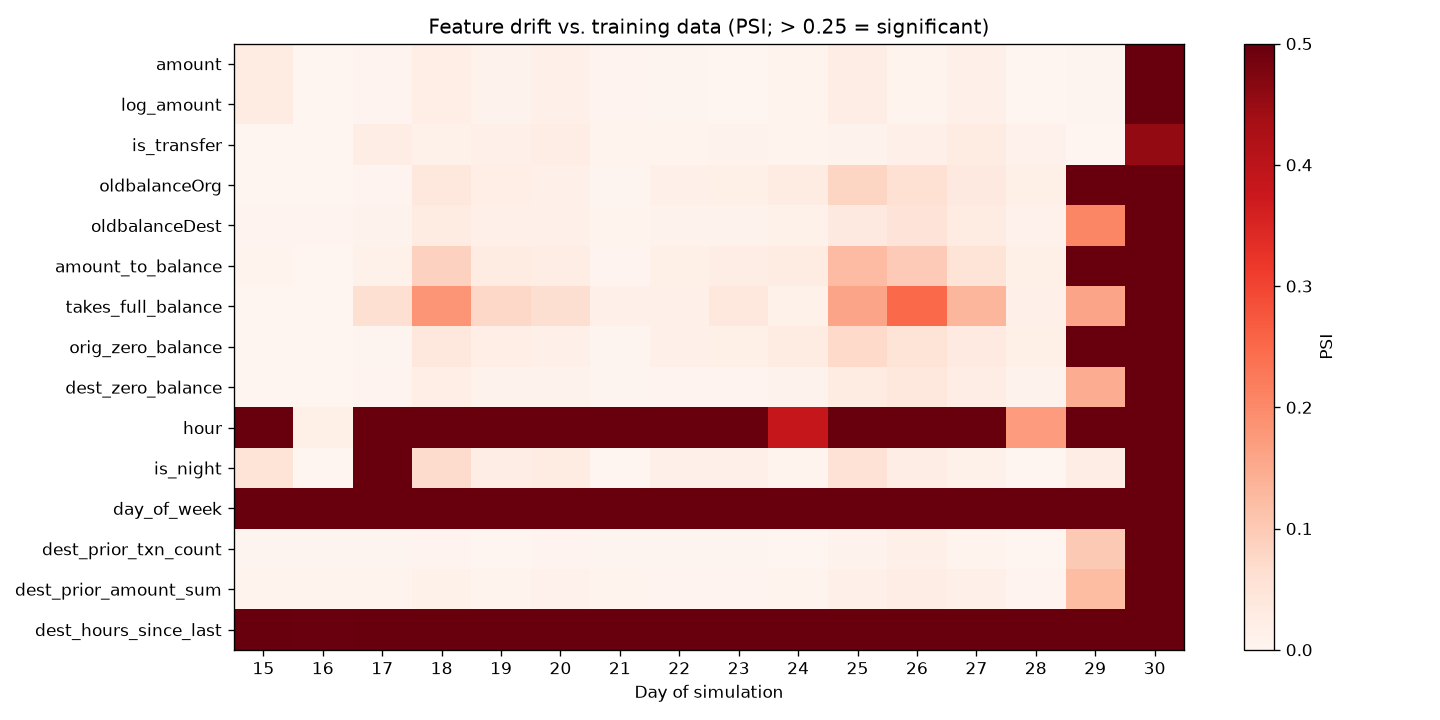
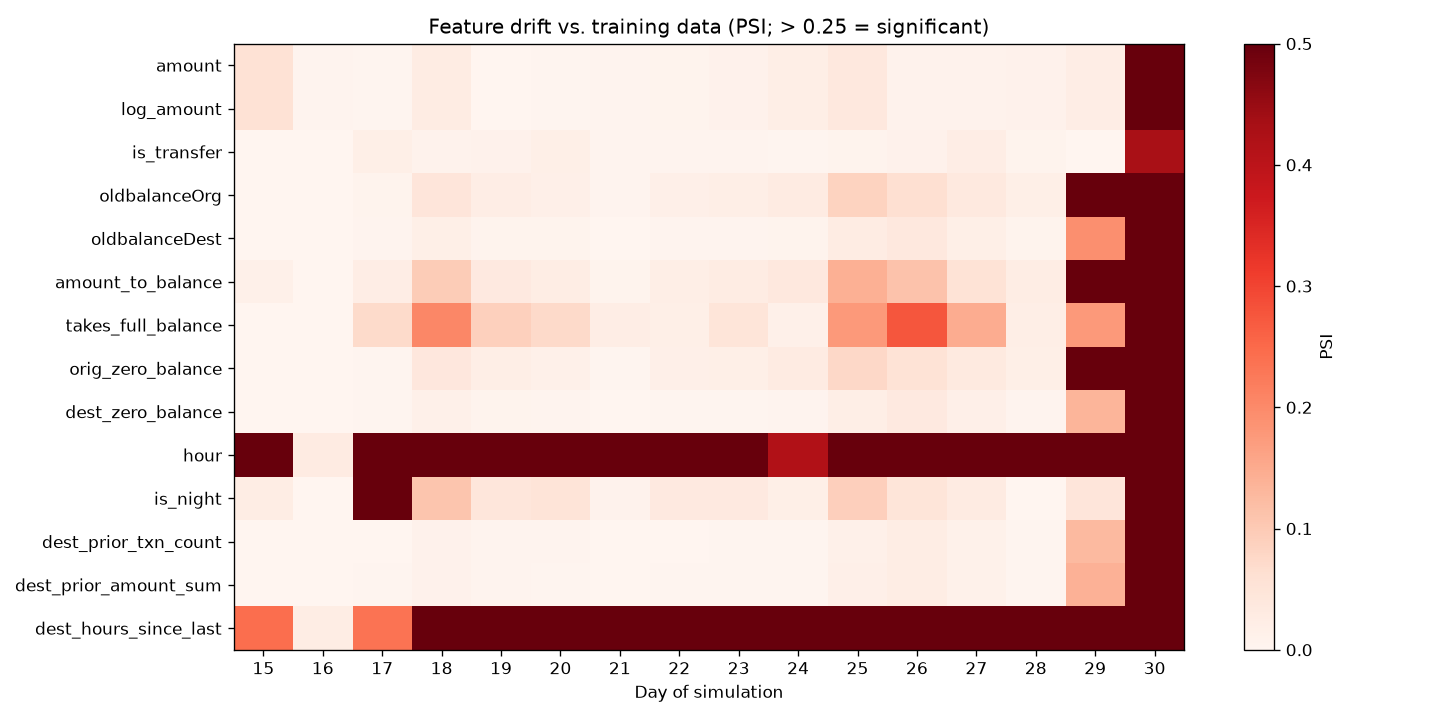
Monitoring: recent reference window, exclude calendar features, volume check

diff --git a/src/monitoring/monitor.py b/src/monitoring/monitor.py
@@ -48,14 +48,18 @@ def main() -> None:
     report_dir.mkdir(parents=True, exist_ok=True)
 
     df = pd.read_parquet(PROJECT_ROOT / tcfg["features_path"])
-    train, _, production = time_split(df, tcfg["train_frac"], tcfg["val_frac"])
+
+    # A random sample of training data is enough to describe "normal" and is much faster    
+    train, val, production = time_split(df, tcfg["train_frac"], tcfg["val_frac"])
     production = production.assign(day=production["step"] // 24)
 
-    # A random sample of training data is enough to describe "normal" and is much faster
-    reference = train.sample(n=min(len(train), mcfg["reference_sample"]), random_state=42)
+    pool = val if mcfg["reference"] == "validation" else train
+    reference = pool.sample(n=min(len(pool), mcfg["reference_sample"]), random_state=42)
+    monitored = [f for f in REALISTIC_FEATURES if f not in mcfg["exclude_features"]]
+    normal_daily_volume = len(pool) / pool["step"].floordiv(24).nunique()
 
     # 1. Data drift
-    drift = daily_drift(reference, production, REALISTIC_FEATURES, mcfg["psi_bins"])
+    drift = daily_drift(reference, production, monitored, mcfg["psi_bins"])
 
     # 2. Prediction drift: how often does the model raise alerts each day?
     model_path = PROJECT_ROOT / tcfg["model_path"]
@@ -70,13 +74,14 @@ def main() -> None:
 
     # Which features drifted each day?
     threshold = mcfg["psi_threshold"]
-    report["drifted"] = report[REALISTIC_FEATURES].apply(
-        lambda row: [f for f in REALISTIC_FEATURES if row[f] > threshold], axis=1)
+    report["drifted"] = report[monitored].apply(
+        lambda row: [f for f in monitored if row[f] > threshold], axis=1)
     report["n_drifted"] = report["drifted"].str.len()
-
+    report["volume_ratio"] = report["n_txns"] / normal_daily_volume
+    report["low_volume"] = report["volume_ratio"] < mcfg["min_volume_ratio"]
     for _, r in report.iterrows():
-        logger.info("day %2d | %7d txns | alert rate %6.3f%% | drifted: %s",
-                    r["day"], r["n_txns"], 100 * r["alert_rate"], r["drifted"] or "-")
+        logger.info("day %2d | %7d txns (%.0f%% of normal) | alert rate %6.3f%% | drifted: %s",
+                    r["day"], r["n_txns"], 100 * r["volume_ratio"], 100 * r["alert_rate"], r["drifted"] or "-")
 
     # 3. Retraining decision
     recent = report["n_drifted"].tail(mcfg["consecutive_days"])
@@ -88,16 +93,17 @@ def main() -> None:
         "model_version": meta["version"],
         "days_monitored": len(report),
         "days_with_drift": int((report["n_drifted"] > 0).sum()),
-        "most_drifted_features": report[REALISTIC_FEATURES].max().sort_values(ascending=False)
+        "most_drifted_features": report[monitored].max().sort_values(ascending=False)
                                        .head(5).round(3).to_dict(),
         "reference_alert_rate": reference_alert_rate,
         "production_alert_rate": float(production["alert"].mean()),
         "retrain_recommended": retrain,
+        "days_with_low_volume": report.loc[report["low_volume"], "day"].tolist(),
     }
 
     report.to_csv(report_dir / "drift_report.csv", index=False)
     (report_dir / "monitoring_summary.json").write_text(json.dumps(summary, indent=2))
-    plot_heatmap(report, REALISTIC_FEATURES, report_dir / "drift_heatmap.png")
+    plot_heatmap(report, monitored, report_dir / "drift_heatmap.png")
 
     logger.info("Alert rate: training %.3f%% -> production %.3f%%",
                 100 * summary["reference_alert_rate"], 100 * summary["production_alert_rate"])
